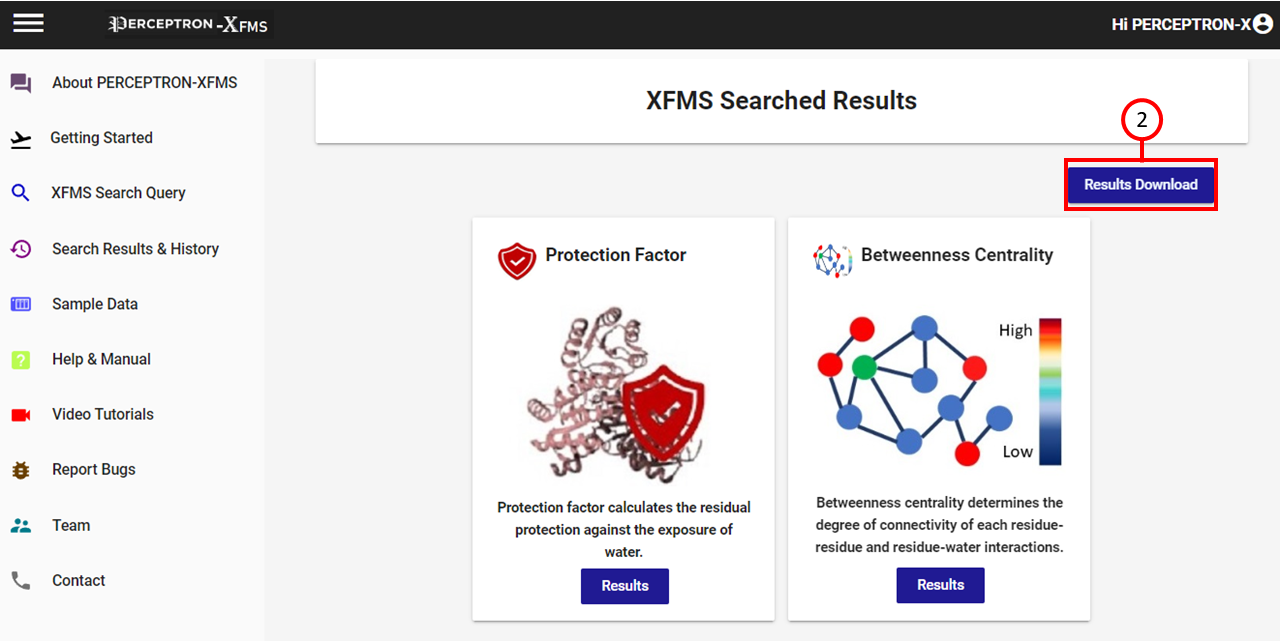
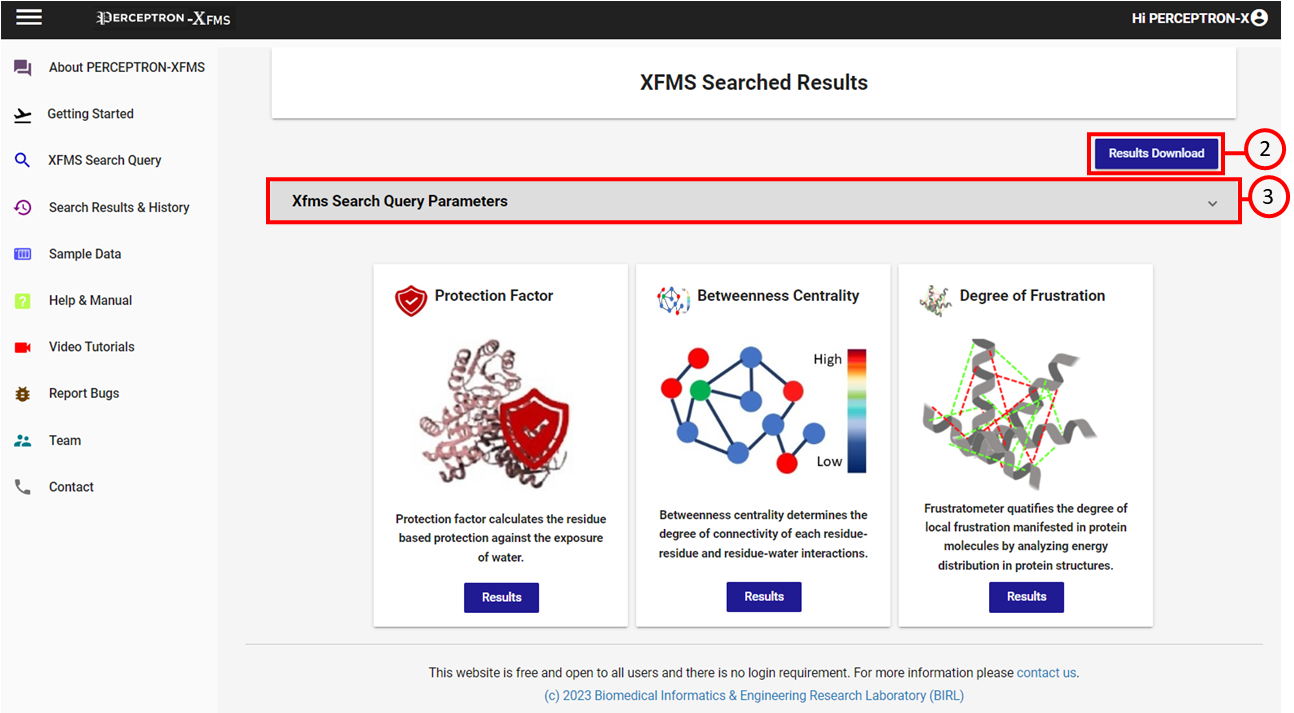
Updated

diff --git a/PerceptronXfmsFrontEnd/src/app/help/help.component.html b/PerceptronXfmsFrontEnd/src/app/help/help.component.html
@@ -22,8 +22,11 @@
             <div style="text-align:center"><img src="assets/images/help02.png" width="70%;"></div>
 
 
+            <br>
+            <p style="font-size:20px; font-weight:bold">Downloadable Result Files</p>
             <ul>
-                <li style="margin-top:20px; margin-bottom: 20px;"> Downloaded result (*.zip) file contains multiple following files.</li>
+                <li style="margin-top:20px; margin-bottom: 20px;"> Downloaded result (*.zip) file contains multiple
+                    following sub folders and files.</li>
                 <dd><b>-</b> A number of sub folders corresponding to different peptides in the protein and each folder
                     contains given below set of information:</dd>
                 <ul>
@@ -38,60 +41,129 @@
                     residue.</dd>
                 <dd><b>-</b><b> SASAmain.png</b> a graphical representation of the protection factor data with SASA
                     values on x-axis and log (PF) on y-axis. </dd>
-                <dd><b>-</b><b> Modified.pdb</b> a pdb file incorporated with log(PF) values.</dd>
+                <!-- <dd><b>-</b><b> Modified.pdb</b> a pdb file incorporated with log(PF) values.</dd> -->
                 <dd><b>-</b><b> ResultsBridge.xlsx</b> an excel file that contains centrality scores of the residues
                     using Bridge algorithm.</dd>
-                </ul>
+
+                <dd><b>-</b><b> frustratometeR_Results</b> include images that quantifies the degree of local
+                    frustration in a given
+                    protein. User also get tables with the calculated Frustration indexes and scripts to locally explore
+                    and manipulate
+                    the structures.</dd>
+            </ul>
             <hr>
 
+            <li>User can visualize the Search query Parameters by clicking the ‘XFMS Search Query Parameters’.</li>
+            <div style="text-align:center"><img src="assets/images/help_XfmsSearchQueryParameters.png" width="70%;">
+            </div>
 
-            <li style="margin-top:20px; margin-bottom:20px">User can visualize the results by clicking the <span
+
+            <hr>
+            <li style="margin-top:20px; margin-bottom:20px">User can visualize XFMS results by clicking the <span
                     style="font-weight: bold; color: red;">‘Results’</span> button in ‘Protection Factor’.</li>
-            <div style="text-align:center"><img src="assets/images/help03.png" width="70%;"></div>
-
-      
+            <div style="text-align:center"><img src="assets/images/help_PF_Results_Button.png" width="70%;"></div>
 
 
             <ul>
 
-            <li style="margin-top:20px; margin-bottom:20px">‘Detailed Protection Factor Results’ show solvent
-                accessibility graph and the protection factor table. Solvent accessibility graph shows the anomalous
-                residues.</li>
+                <li style="margin-top:20px; margin-bottom:20px">‘Detailed Protection Factor Results’ shows protein
+                    information, solvent accessibility graph, and the protection factor table shows the anomalous
+                    residues and their solvent accessibility.</li>
 
 
 
             </ul>
-            <div style="text-align:center"><img src="assets/images/help04_a.png" width="70%;"></div>
+            <div style="text-align:center"><img src="assets/images/help_04a.png" width="70%;"></div>
+            <hr>
+            <li style="margin-top:20px; margin-bottom:20px">Protein Information includes the name of the protein,
+                organism name, gene name and number of amino acids in the protein followed by its sequence.</li>
+            <div style="text-align:center"><img src="assets/images/help_04b.png" width="70%;"></div>
             <hr>
 
 
-
-            <li style="margin-top:20px; margin-bottom:20px">The graph contain SASA values on x-axis and log (PF) on
+            <li style="margin-top:20px; margin-bottom:20px">The graph contains SASA values on x-axis and log (PF) on
                 y-axis.</li>
-            <div style="text-align:center"><img src="assets/images/help04_b.png" width="40%;"></div>
+            <div style="text-align:center"><img src="assets/images/help_04c.png" width="40%;"></div>
             <hr>
 
 
             <li style="margin-top:20px; margin-bottom:20px">‘Residue Based Solvent Accessible Surface Area & Log
-                (Protection Factor)’ table shows the details of the anomalous residues along with their residual
-                positions, names, SASA values, and the log (PF) scores.</li>
-            <div style="text-align:center"><img src="assets/images/help05.png" width="70%;"></div>
+                (Protection Factor)’ shows the details of the anomalous residues. The table shows Residue position,
+                residue name their SASA value and log (PF) scores. </li>
+            <div style="text-align:center"><img src="assets/images/help_04d.png" width="70%;"></div>
             <hr>
 
 
 
-            <li style="margin-top:20px; margin-bottom:20px">Users can also visualize the centrality scores of residues
-                identified using Bridge Algorithm by clicking the <span
-                    style="font-weight: bold; color: red;">‘Results’</span> button in ‘Betweenness Centrality’</li>
-            <div style="text-align:center"><img src="assets/images/help06a.png" width="70%;"></div>
-           
+            <li style="margin-top:20px; margin-bottom:20px"> In ‘Betweeness Centrality’ tab by clicking the <span
+                    style="font-weight: bold; color: red;">‘Results’</span> button, user can visualize the centrality
+                scores of important residues identified by using Bridge Algorithm.</li>
+            <div style="text-align:center"><img src="assets/images/help_05.png" width="70%;"></div>
 
             <ul>
-            <li style="margin-top:20px; margin-bottom:20px">The table shows the name and position of important hydrogen
-                bonded residues and their degree centrality and betweenness centrality scores.</li>
-            <div style="text-align:center"><img src="assets/images/help06b.png" width="70%;"></div>
-        </ul>
+                <li style="margin-top:20px; margin-bottom:20px">‘Detailed Betweenness Centrality Results’ shows protein information as well as important hydrogen bonded residues and their degree centrality and betweenness centrality scores.</li>
+                <div style="text-align:center"><img src="assets/images/help_05a.png" width="70%;"></div>
+            </ul>
+
+
+            <ul>
+                <li style="margin-top:20px; margin-bottom:20px">Protein Information includes the name of the protein,
+                    organism name, gene name and number of amino acids in the protein followed by its sequence.</li>
+                <div style="text-align:center"><img src="assets/images/help_04b.png" width="70%;"></div>
+            </ul>
+
+
+            <ul>
+                <li style="margin-top:20px; margin-bottom:20px">The table shows the name and position of important
+                    hydrogen
+                    bonded residues and their degree centrality and betweenness centrality scores.</li>
+                <div style="text-align:center"><img src="assets/images/help06b.png" width="70%;"></div>
+            </ul>
+
+            <hr>
             
+
+
+
+
+            <li style="margin-top:20px; margin-bottom:20px"> In ‘Degree of Frustration’ tab by clicking the <span
+                style="font-weight: bold; color: red;">‘Results’</span> button, user can visualize the locally frustrated contacts calculated by analyzing energy distribution using frustratometeR algorithm.</li>
+        <div style="text-align:center"><img src="assets/images/help_06.png" width="70%;"></div>
+
+        <ul>
+            <li style="margin-top:20px; margin-bottom:20px">‘Detailed Frustration Results’ include degree of frustration in each class, contacts density in sequence space and frustration contact map.</li>
+            <div style="text-align:center"><img src="assets/images/help_06a.png" width="70%;"></div>
+        </ul>
+
+        <ul>
+            <li style="margin-top:20px; margin-bottom:20px">Protein Information includes the name of the protein,
+                organism name, gene name and number of amino acids in the protein followed by its sequence.</li>
+            <div style="text-align:center"><img src="assets/images/help_04b.png" width="70%;"></div>
+        </ul>
+
+
+        <ul>
+            <li style="margin-top:20px; margin-bottom:20px">‘Detailed Frustration Results’ include degree of frustration in each class, contacts density in sequence space and frustration contact map.</li>
+            <div style="text-align:center"><img src="assets/images/help_06a.png" width="70%;"></div>
+        </ul>
+
+        <ul>
+            <li style="margin-top:20px; margin-bottom:20px">Protein Information includes the name of the protein,
+                organism name, gene name and number of amino acids in the protein followed by its sequence.</li>
+            <div style="text-align:center"><img src="assets/images/help_04b.png" width="70%;"></div>
+        </ul>
+
+
+        <ul>
+            <li style="margin-top:20px; margin-bottom:20px">Protein Information includes the name of the protein,
+                organism name, gene name and number of amino acids in the protein followed by its sequence.</li>
+            <div style="text-align:center"><img src="assets/images/help_04b.png" width="70%;"></div>
+        </ul>
+
+
+
+
+
         </ol>
 
     </mat-card>

diff --git a/PerceptronXfmsFrontEnd/src/app/about/about.component.html b/PerceptronXfmsFrontEnd/src/app/about/about.component.html
@@ -16,7 +16,7 @@
             <!-- X-ray Foot Printing with Mass Spectrometry (XFMS) is an essential tool for analysis of protein structure and
             conformational changes by employing solvent accessibility of covalently modified residues. PERCEPTRON-XFMS searches and quantifies hydroxyl modified residues and is available, freely, online. -->
            
-            X-ray Foot Printing with Mass Spectrometry (XFMS) is a powerful approach for analysis of protein structure, interactions, folding  and conformational changes <a href="https://pubs.acs.org/doi/10.1021/ac200567u">[REF]</a>. It employs solvent accessibility of covalently modified residues and reactivity rate to calculate protection factors <a href="https://pubmed.ncbi.nlm.nih.gov/25564857/">[REF]</a>. Comparison of reactivity rates among protein states provides insights into structural changes, which is later used to construct protein functional and dynamical structure models <a href="https://www.ncbi.nlm.nih.gov/pmc/articles/PMC5006651/">[REF]</a>. Here, we present PERCEPTRON-XFMS, a web-based platform to search and quantify hydroxyl modified residues and  to calculate their protection factors along with centrality scores and local frustration. PERCEPTRON-XFMS is freely available, online.
+            X-ray Foot Printing with Mass Spectrometry (XFMS) is a powerful approach for analysis of protein structure, interactions, folding  and conformational changes <a href="https://pubs.acs.org/doi/10.1021/ac200567u">(Wang and Chance 2011)</a>. It employs solvent accessibility of covalently modified residues and reactivity rate to calculate protection factors <a href="https://pubmed.ncbi.nlm.nih.gov/25564857/">(Huang et al. 2015)</a>. Comparison of reactivity rates among protein states provides insights into structural changes, which is later used to construct protein functional and dynamical structure models <a href="https://www.ncbi.nlm.nih.gov/pmc/articles/PMC5006651/">(Gupta et al. 2016)</a>. Here, we present PERCEPTRON-XFMS, a web-based platform to search and quantify hydroxyl modified residues and  to calculate their protection factors along with centrality scores and local frustration. PERCEPTRON-XFMS is freely available, online.
 
             <br><br>
             PERCEPTRON-XFMS web server brings together algorithms for:<br>

diff --git a/PerceptronXfmsFrontEnd/src/app/scan-view/scan-view.component.html b/PerceptronXfmsFrontEnd/src/app/scan-view/scan-view.component.html
@@ -31,7 +31,7 @@
 
       </mat-grid-tile>
 
-      <mat-grid-tile colspan="4" rowspan="1" style="text-align: left;">
+      <mat-grid-tile colspan="3" rowspan="1" style="text-align: left;">
         <div style="padding-left:5px; padding-bottom: 0px ; width:100%">
           <p style="text-align: left;">
             <span style ="font-size:100%; font-weight: bolder; color: black;">Job Creation Time<span style ="font-size:100%;">|  </span></span>
@@ -52,7 +52,7 @@
 
       </mat-grid-tile>
 
-      <mat-grid-tile colspan="2" rowspan="1" style="text-align: left;">
+      <mat-grid-tile colspan="3" rowspan="1" style="text-align: left;">
         <div style="padding-left:5px; padding-bottom: 0px ; width:100%">
           <p style="text-align: left;">
             <span style ="font-size:100%; font-weight: bolder; color: black;">User Email<span style ="font-size:100%;">|  </span></span>
@@ -75,7 +75,7 @@
         </div>
       </mat-grid-tile>
 
-      <mat-grid-tile colspan="4" rowspan="1" style="text-align: left;">
+      <mat-grid-tile colspan="3" rowspan="1" style="text-align: left;">
         <div style="padding-left:5px; padding-bottom: 0px ; width:100%">
           <p style="text-align: left;">
             <span style ="font-size:100%; font-weight: bolder; color: black;">Bridge Algorithm<span style ="font-size:100%;">|  </span></span>

diff --git a/PerceptronXfmsFrontEnd/src/app/scan-view/scan-view.component.ts b/PerceptronXfmsFrontEnd/src/app/scan-view/scan-view.component.ts
@@ -124,7 +124,9 @@ export class ScanViewComponent implements OnInit {
     
     this.isFrustratometerEnabled = data.SearchXfmsQuery.isFrustratometerEnabled;
     this.Progress = data.SearchXfmsQuery.Progress;
-    this.JobSubmissionTime = data.SearchXfmsQuery.CreationTime;
+
+    let CreationTime = data.SearchXfmsQuery.CreationTime.substring(0, data.SearchXfmsQuery.CreationTime.indexOf("."));
+    this.JobSubmissionTime = CreationTime.replace("T", " ")
 
     if (data.SearchXfmsQuery.isBridgeEnabled == "True") {
       this.isBridgeEnabled = "Enabled";
